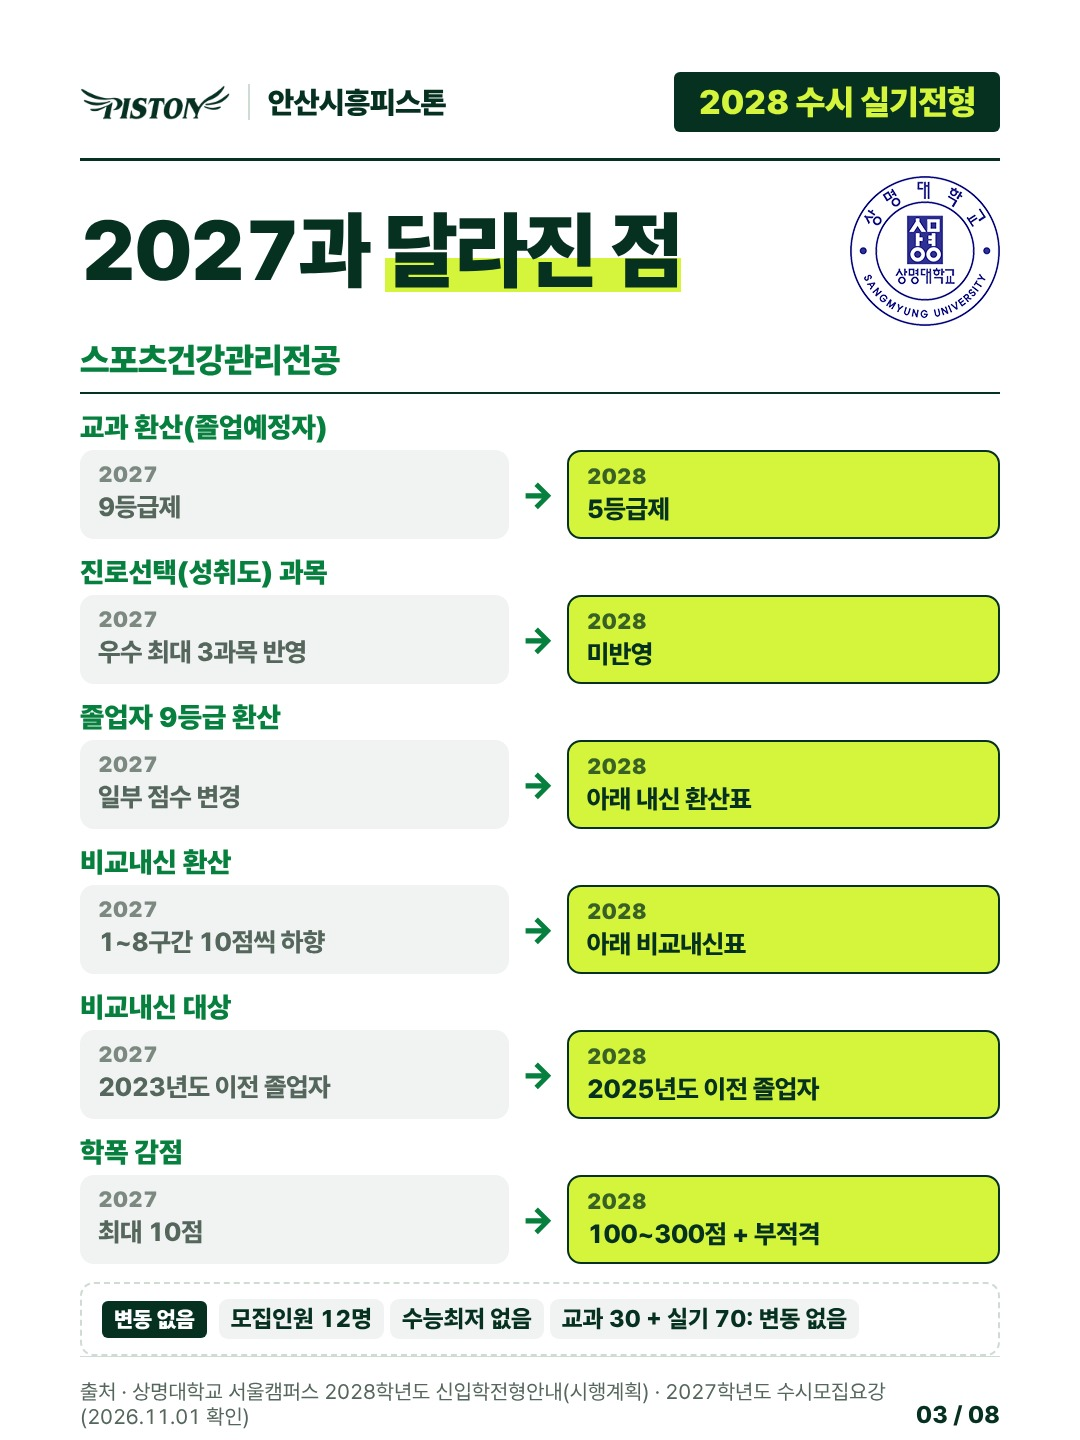
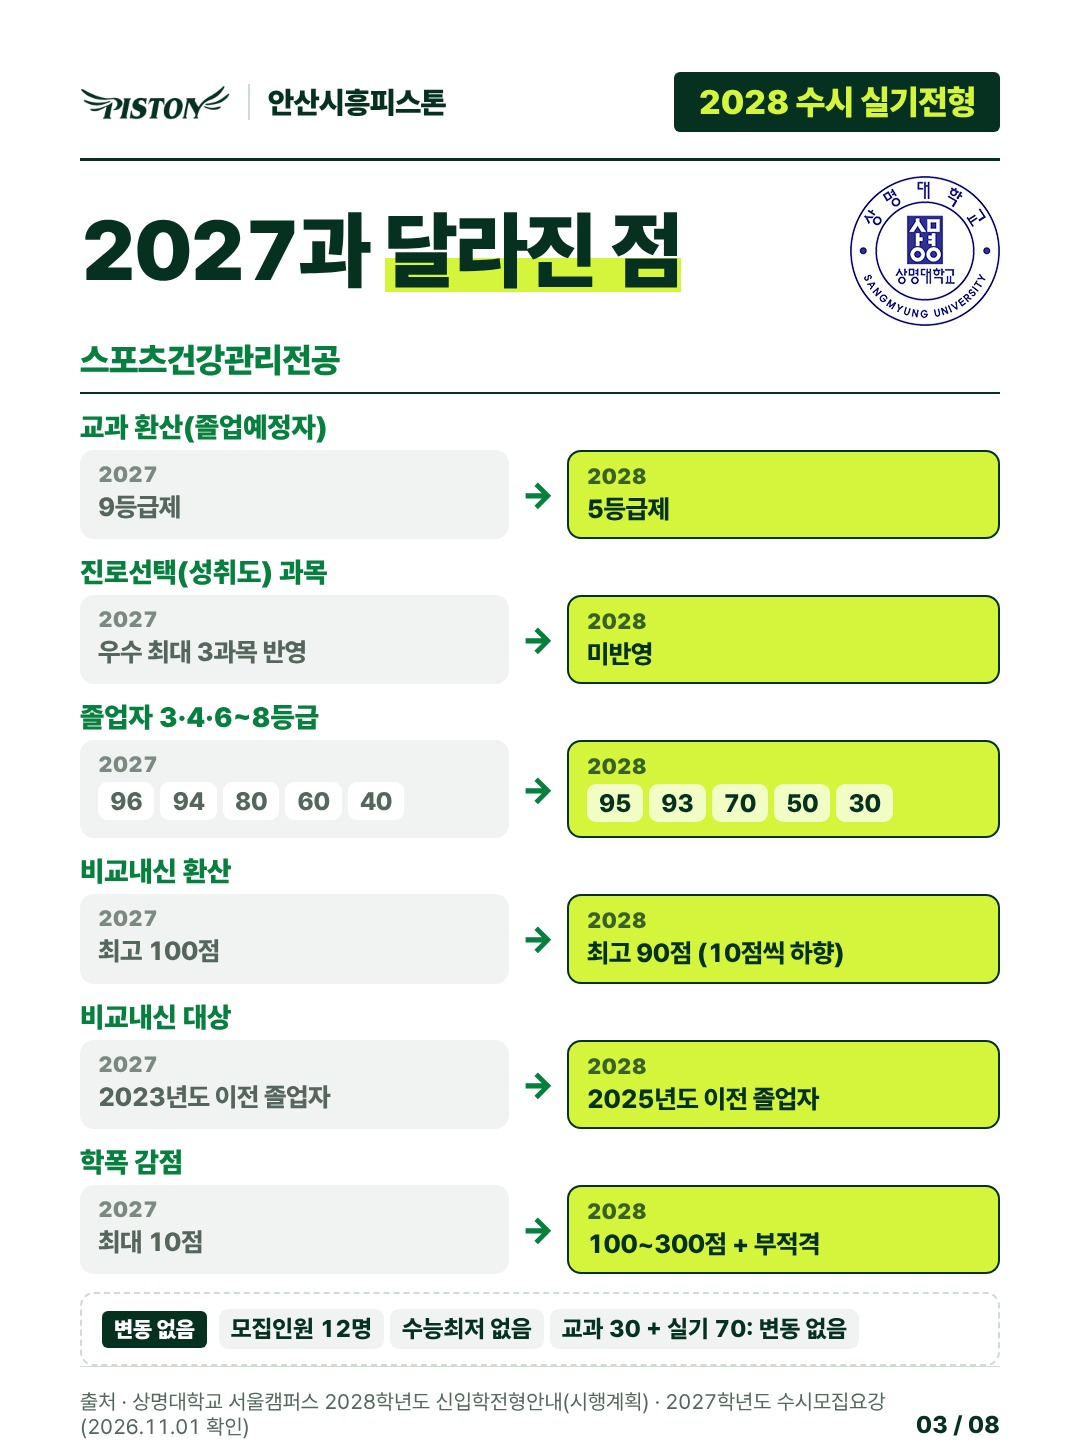
상명 수시 변경점: 아래 표 참조 문구를 실제 수치로
Claude-Session: https://claude.ai/code/session_01EGTn7G8nWP1yv5M2jqmoFb

diff --git a/social/out/smu-susi-susi/blog.md b/social/out/smu-susi-susi/blog.md
@@ -18,8 +18,8 @@
 **스포츠건강관리전공**
 - 교과 환산(졸업예정자): 9등급제 → 5등급제
 - 진로선택(성취도) 과목: 우수 최대 3과목 반영 → 미반영
-- 졸업자 9등급 환산: 일부 점수 변경 → 아래 내신 환산표
-- 비교내신 환산: 1~8구간 10점씩 하향 → 아래 비교내신표
+- 졸업자 3·4·6~8등급: 96·94·80·60·40 → 95·93·70·50·30
+- 비교내신 환산: 최고 100점 → 최고 90점 (10점씩 하향)
 - 비교내신 대상: 2023년도 이전 졸업자 → 2025년도 이전 졸업자
 - 학폭 감점: 최대 10점 → 100~300점 + 부적격
 - 모집인원 12명 · 수능최저 없음 · 교과 30 + 실기 70: 변동 없음
